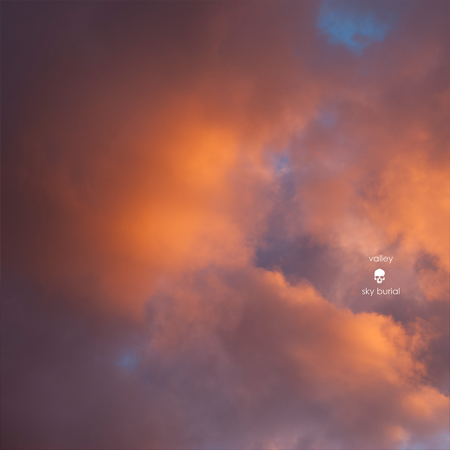
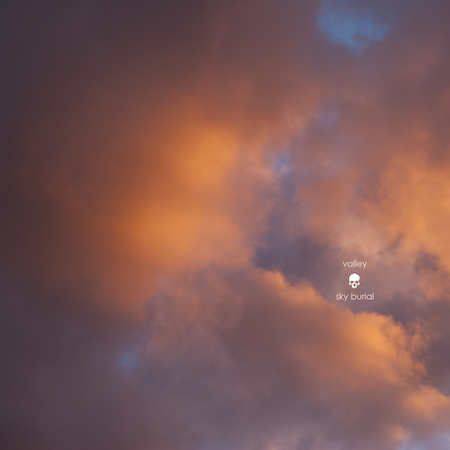
update page for 2026 release
Added new release to Music tab.

Changed region(s): [[0.3111, 0.28, 0.5289, 0.56], [0.7467, 0.56, 0.9022, 0.6844]]

diff --git a/music.html b/music.html
@@ -31,12 +31,21 @@
       </header>
       <article class="information">
         <h1>Music</h1>
+        <div id="Sky Burial" class="album">  
+          <figure class="album-cover">
+            <img src="images/skyBurial.png" alt="Sky Burial" title="Sky Burial (2026)" width="200px" />
+          </figure>
+          <figcaption id="title">
+              Sky Burial EP (November 6, 2026)<br />
+              <small id="subtitle"><i>stand by for more information...</i></small>
+          </figcaption>
+        </div>
         <div id="sunburst" class="album">  
           <figure class="album-cover">
             <img src="images/sunburst.png" alt="Sunburst" title="Sunburst (2015)" width="200px" />
           </figure>
           <figcaption id="title">
-              Sunburst EP (september 9, 2015)<br />
+              Sunburst EP (September 9, 2015)<br />
               <small id="subtitle">Released on <a href="https://versionstudio.com">Version Studio Records</a></small>
           </figcaption>
           <ul class="album-links">
@@ -52,7 +61,7 @@
       </figure>
    </main>
    <footer>
-    <small class="copy">Copyright &copy; 2025 Valley</small>
+    <small class="copy">Copyright &copy; 2026 Valley</small>
    </footer>
    <script src="/js/darkmode.js"></script>
   </body>

diff --git a/contact.html b/contact.html
@@ -33,6 +33,7 @@
         <h1>Contact</h1>
         <p>Visit us on <a rel="me" href="https://mastodon.social/@valleytheband">Mastodon</a></p>
         <p>Email us at valleytunes(at)gmail(dot)com</p>
+        <p>Catch us over on <a href="https://www.youtube.com/channel/UCw6WeUxxA1q-8dKKuLr3gMA" target="new">YouTube</a></p>
       </article>
       <figure id="skull">
         <?xml version="1.0" encoding="utf-8"?>
@@ -40,7 +41,7 @@
       </figure>
     </main>
     <footer>
-      <small class="copy">Copyright &copy; 2025 Valley</small>
+      <small class="copy">Copyright &copy; 2026 Valley</small>
     </footer>
     <script src="/js/darkmode.js"></script>
   </body>

diff --git a/index.html b/index.html
@@ -32,7 +32,7 @@
       <article class="information">
         <h1>We are Valley</h1>
         <p>Daniel Pettersson - drums</p>
-        <p>Jocke Stefanides - guitars</p>
+        <p>Joakim Stefanides - guitars</p>
         <p>Erik Sirelius - bass</p>
         <p>Erik Svallingson - keyboards, percussion</p>
         <br />
@@ -44,7 +44,7 @@
       </figure>
     </main>
     <footer>
-      <small class="copy">Copyright &copy; 2025 Valley</small>
+      <small class="copy">Copyright &copy; 2026 Valley</small>
     </footer>
     <script src="/js/darkmode.js"></script>
   </body>

diff --git a/css/style.css b/css/style.css
@@ -207,6 +207,7 @@ article a:hover {
   padding: 5px 0 15px 0;
   width: 200px;
   height: 200px;
+  filter: drop-shadow(2px 2px 5px #222);
 }
 
 .album-cover img {
